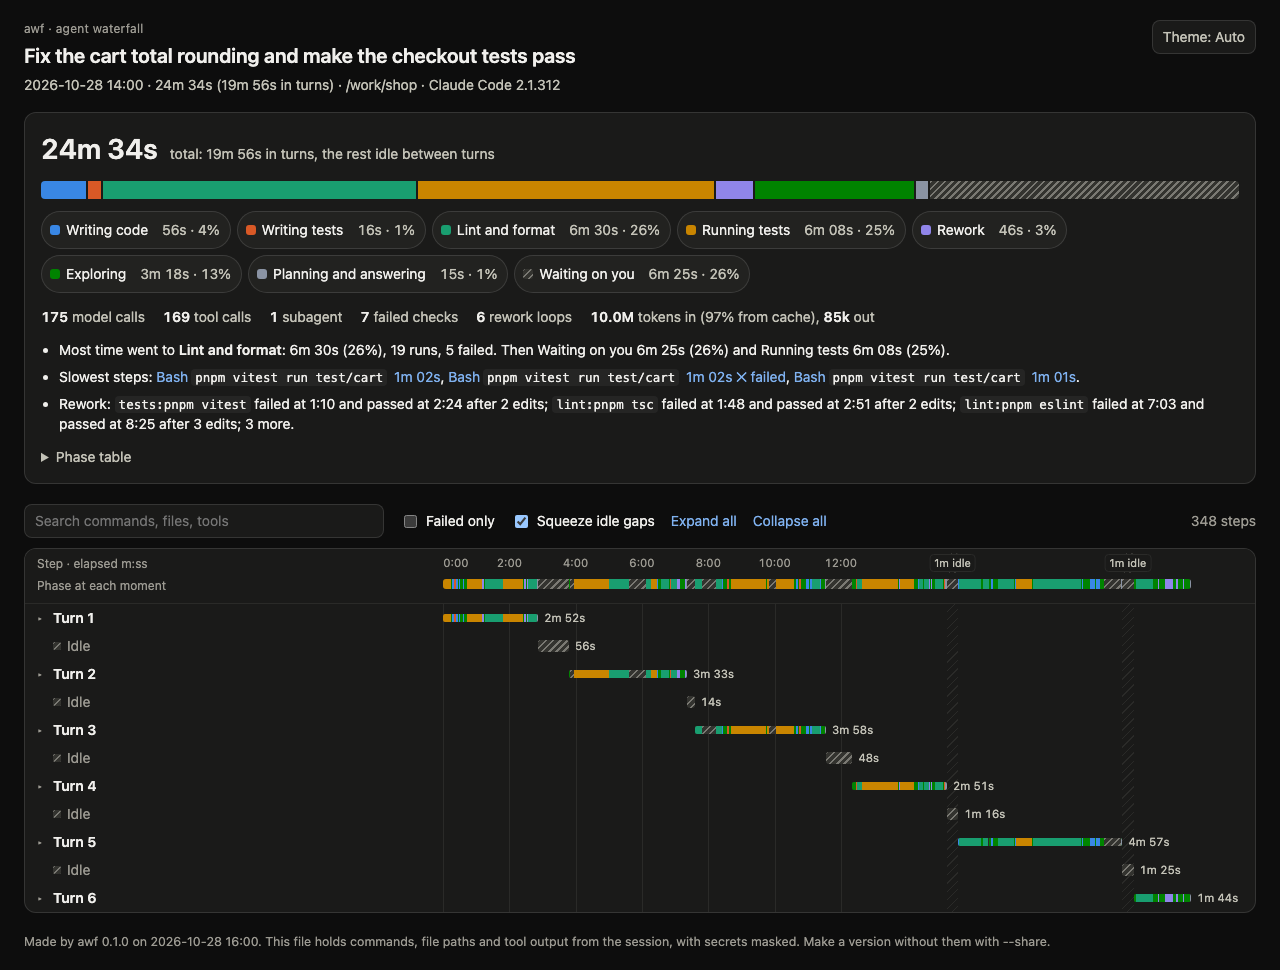
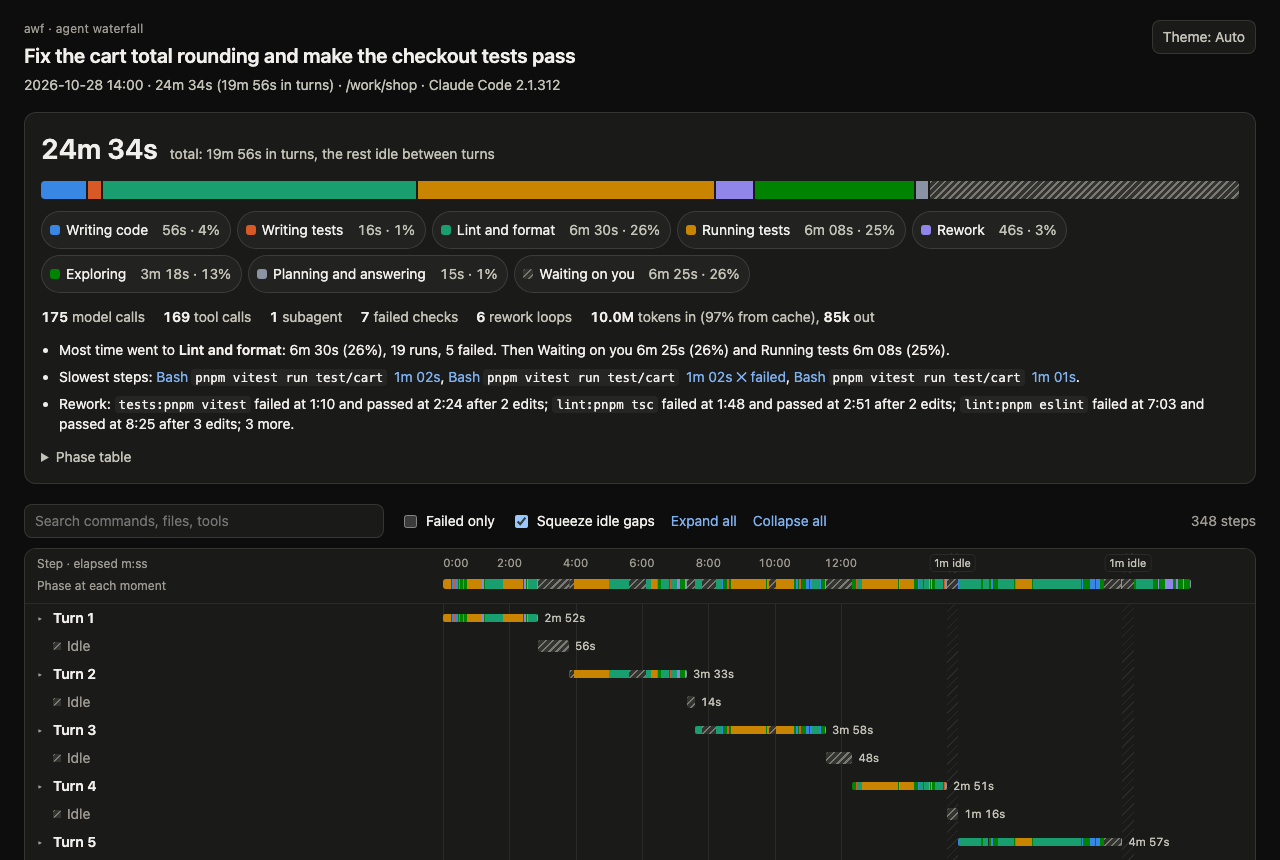
pnpm report:sample writes the sample report and its screenshots

diff --git a/scripts/sample-report.ts b/scripts/sample-report.ts
@@ -1,0 +1,59 @@
+// Writes docs/sample-report.html from the made-up session in test/report/synthetic.ts, and its
+// light and dark screenshots to docs/images/. Nothing from this machine reaches either: the session
+// is invented, and the report gets a made-up home and a fixed time.
+// Usage: pnpm report:sample
+import { mkdirSync, readFileSync, writeFileSync } from 'node:fs';
+import path from 'node:path';
+import { pathToFileURL } from 'node:url';
+import { type Browser, chromium } from 'playwright-core';
+import { analyze } from '../src/analyze/summary';
+import { memoryFiles } from '../src/classify/resolve';
+import { buildReportData } from '../src/report/data';
+import { renderReportHtml } from '../src/report/html';
+import { syntheticSession } from '../test/report/synthetic';
+
+/** Six turns fit on one screen with readable bars; twenty turns open mostly as collapsed rows. */
+const TURNS = 6;
+const VIEWPORT = { width: 1280, height: 860 };
+
+async function launchChromium(): Promise<Browser> {
+  try {
+    return await chromium.launch();
+  } catch {
+    console.error("Chromium isn't installed. Run: pnpm exec playwright-core install chromium");
+    process.exit(1);
+  }
+}
+
+const browser = await launchChromium();
+const file = path.resolve('docs/sample-report.html');
+const session = syntheticSession({ turns: TURNS });
+const analysis = analyze(session, { files: memoryFiles({}) });
+const data = buildReportData(analysis, { home: '/home/dev', now: Date.UTC(2026, 9, 28, 16, 0, 0) });
+writeFileSync(file, renderReportHtml(data));
+console.log(`${path.relative('.', file)}: ${readFileSync(file).length} bytes`);
+
+mkdirSync('docs/images', { recursive: true });
+try {
+  for (const colorScheme of ['light', 'dark'] as const) {
+    const page = await browser.newPage({
+      viewport: VIEWPORT,
+      colorScheme,
+      timezoneId: 'UTC',
+      locale: 'en-GB',
+    });
+    const url = pathToFileURL(file).href;
+    page.on('pageerror', (error) => console.error(`page error: ${error.message}`));
+    page.on('request', (request) => {
+      if (request.url() !== url) console.error(`request: ${request.url()}`);
+    });
+    await page.goto(url);
+    await page.waitForSelector('body[data-ready="1"]');
+    const shot = `docs/images/sample-report-${colorScheme}.png`;
+    await page.screenshot({ path: shot });
+    console.log(`${shot}: ${readFileSync(shot).length} bytes`);
+    await page.close();
+  }
+} finally {
+  await browser.close();
+}
